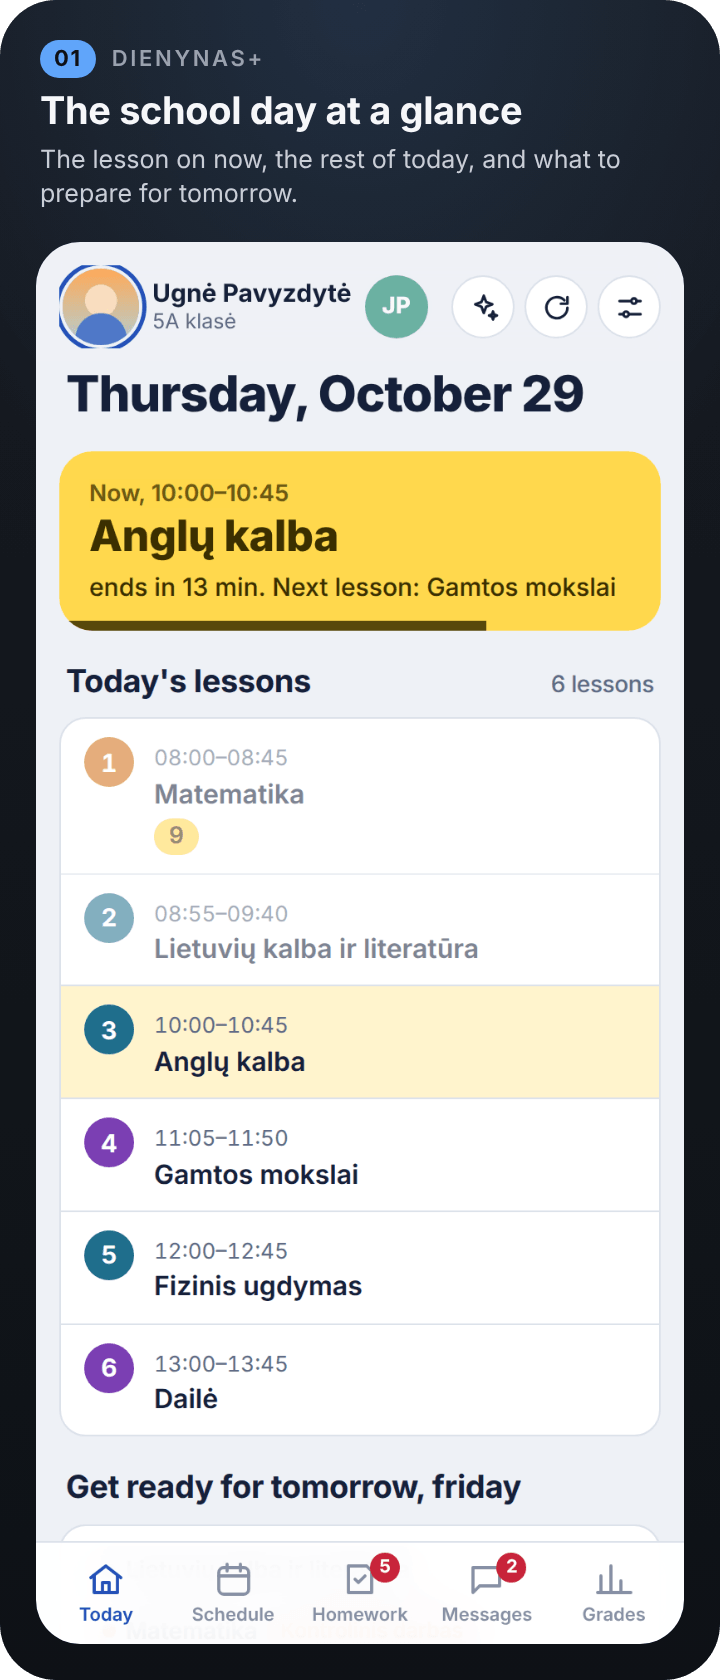
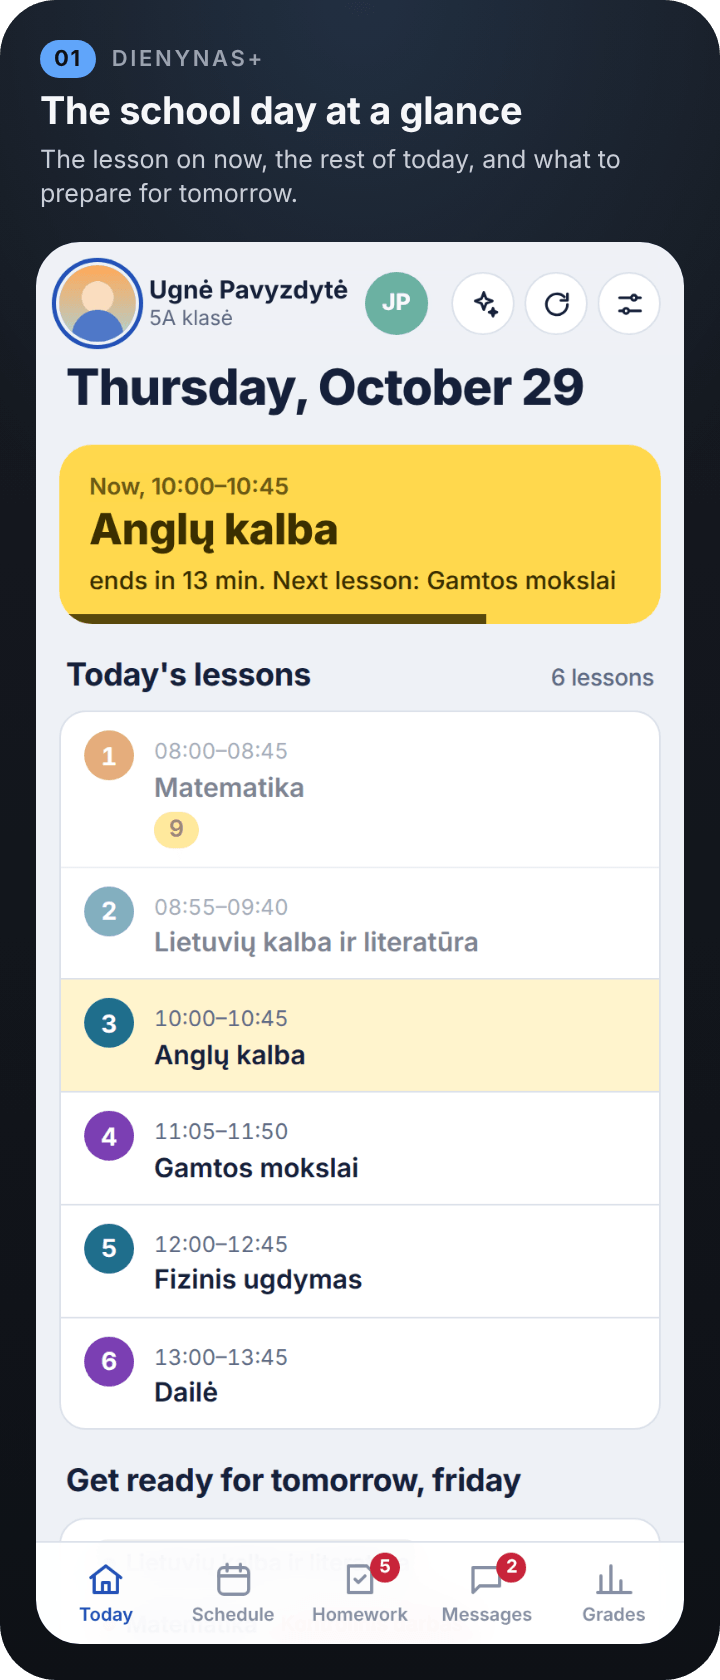
Release 1.12.1: the selected child's photo ring is no longer cut off
The children row scrolls sideways, so it clipped anything beyond its 2 px
padding; the selected photo's ring reaches 4.5 px outside the circle. The row
now has 7 px of room on every side, offset by a negative margin so the header
layout is unchanged. Screenshots regenerated.

diff --git a/Dienynas.js b/Dienynas.js
@@ -30,7 +30,7 @@ const SESSION_TTL_MIN = 25;
 
 
 // This build's version. When releasing, bump it and add a matching entry to releases.json.
-const VERSION = '1.12.0';
+const VERSION = '1.12.1';
 const APP_ID = 'dienynasplus';   // unique per app, never changes
 const REPO_RAW = 'https://raw.githubusercontent.com/gadominas/Tamo-/master/';
 const SCRIPT_FILE = 'Dienynas.js';   // the script's file name in the repository
@@ -1322,7 +1322,7 @@ button:focus-visible{outline:2px solid var(--blue);outline-offset:2px;border-rad
 .num{font-family:ui-rounded,"SF Pro Rounded",-apple-system,sans-serif;font-variant-numeric:tabular-nums}
 header.top{position:sticky;top:0;z-index:6;display:flex;align-items:center;justify-content:space-between;gap:10px;padding:calc(14px + env(safe-area-inset-top)) 14px 8px 14px;background:color-mix(in srgb,var(--paper) 90%,transparent);backdrop-filter:blur(14px);-webkit-backdrop-filter:blur(14px);transition:padding .2s ease}
 .compact header.top{padding-top:calc(6px + env(safe-area-inset-top));padding-bottom:6px;border-bottom:1px solid var(--line)}
-.kids{display:flex;align-items:center;gap:8px;min-width:0;flex:1;overflow-x:auto;scrollbar-width:none;padding:2px}
+.kids{display:flex;align-items:center;gap:10px;min-width:0;flex:1;overflow-x:auto;overflow-y:hidden;scrollbar-width:none;padding:7px;margin:-7px}
 .kids::-webkit-scrollbar{display:none}
 .kid{display:flex;align-items:center;gap:8px;flex:none;border-radius:999px;padding:0;text-align:left;min-width:0}
 .av{width:46px;height:46px;border-radius:50%;flex:none;display:grid;place-items:center;color:#fff;font:800 17px/1 var(--display);background-size:cover;background-position:center;transition:width .2s ease,height .2s ease,font-size .2s ease,opacity .2s ease;box-shadow:0 0 0 2px var(--paper)}

diff --git a/CHANGELOG.md b/CHANGELOG.md
@@ -2,6 +2,16 @@
 
 All notable changes to Dienynas+. Generated from `releases.json`; edit that file, not this one.
 
+## 1.12.1 (2026-11-01): Rounder photos
+
+- ⭕ **Whole photo ring**: The selected child's photo and its ring now show as a full circle.
+- ↔ **Room to scroll**: With several children, the photo row scrolls without cutting any edges.
+- 🌙 **Same in dark mode**: The ring stays whole in light and dark mode, at the top and while scrolling.
+
+**Fixes**
+
+- The selected child's photo ring was cut off at the top and left by the children row; the row now leaves room for it on every side
+
 ## 1.12.0 (2026-11-01): Switch children with one tap
 
 - 👧 **One-tap child switch**: Every child's photo sits at the top; tap one to switch straight away.
